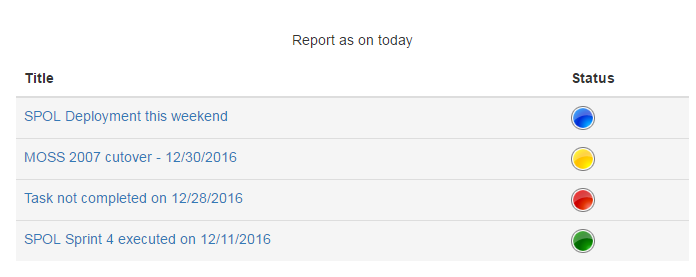
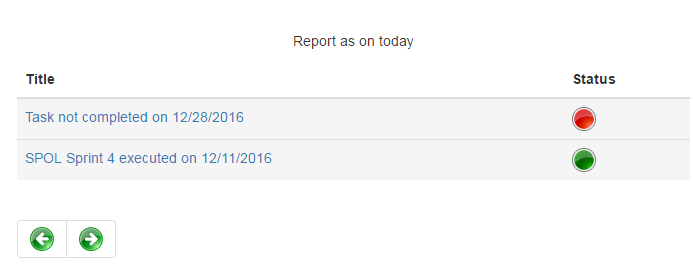
additional images added for pagination

diff --git a/Samples/KPIDisplayTemplate/Task_Status_Indicator.js b/Samples/KPIDisplayTemplate/Task_Status_Indicator.js
@@ -31,8 +31,8 @@ window.KPIList.Overrides = {
         var prev = ctx.ListData.PrevHref;
         var next = ctx.ListData.NextHref;
         html += "<nav class='container-fluid'><ul class='pagination'>";
-        html += prev ?"<li class='page-item'><a class='page-link' aria-label='Previous' href='javascript:void(0)' onclick='RefreshPageTo(event, &quot;" + prev + "&quot;); return false;'><span aria-hidden='true'>&laquo;</span><span class='sr-only'>Previous</span></a></li>": "";       
-        html +=  next ? "<li class='page-item'><a class='page-link' aria-label='Next' href='javascript:void(0)' onclick='RefreshPageTo(event, &quot;" + next + "&quot;); return false;'><span aria-hidden='true'>&raquo;</span><span class='sr-only'>Next</span></a></li>" : "";
+        html += prev ?"<li class='page-item'><a class='page-link' aria-label='Previous' href='javascript:void(0)' onclick='RefreshPageTo(event, &quot;" + prev + "&quot;); return false;'><img src='/sites/dev/SiteAssets/Previous.png' alt='Previous' /></a></li>": "";       
+        html +=  next ? "<li class='page-item'><a class='page-link' aria-label='Next' href='javascript:void(0)' onclick='RefreshPageTo(event, &quot;" + next + "&quot;); return false;'><img src='/sites/dev/SiteAssets/Next.png' alt='Next' /></a></li>" : "";
         html += "</ul></nav></div>";       
         return html;
     }
